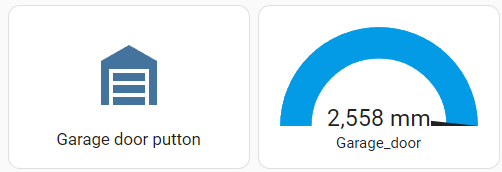
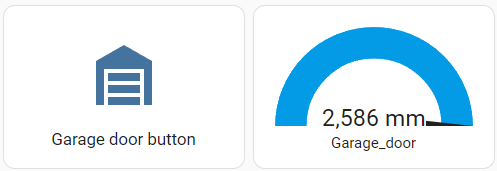
Typo corrected

diff --git a/README.MD b/README.MD
@@ -38,7 +38,7 @@ mqtt:
 
   button:
       unique_id: garage_door_button
-      name: "Garage door putton"
+      name: "Garage door button"
       command_topic: "garage_door/relay"
       payload_press: "pulse"
       qos: 2
